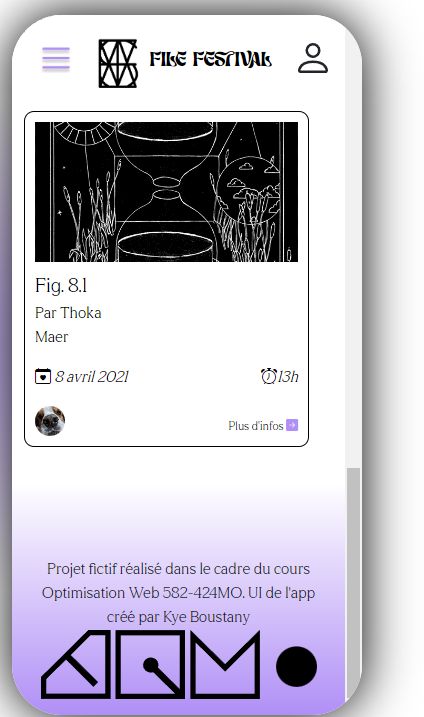
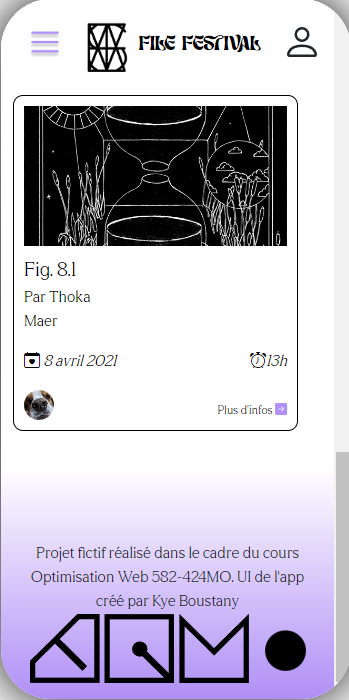
ki

diff --git a/index.html b/index.html
@@ -10,7 +10,7 @@
     <link rel="stylesheet" href="../css/custom_bootstrap.css">
     <link rel="stylesheet" href="https://cdn.jsdelivr.net/npm/swiper@9/swiper-bundle.min.css" />
     <link rel="stylesheet" href="01_css/styles-lp.css">
-    <title> <i class="bi bi-boxes "></i>Document</title>
+
 </head>
 
 <body>
@@ -164,17 +164,25 @@
        
         <section id="viewmore">
             <h3>Prévisualisez l'interface de l'appli</h3>
+            <div class="swiper-screenshots">
             <div class="swiper" id="scrollyspyHeading5">
                
         <div class="swiper-wrapper">
             
-        <div class="swiper-slide">Slide 1</div>
-            <div class="swiper-slide">Slide 2</div>
-            <div class="swiper-slide">Slide 3</div>
-            ...
+        <div class="swiper-slide"></div>
+        <img src="../00_assets/iframe/haut-page.PNG" class="imgswiper">
+            <div class="swiper-slide"></div>
+            <img src="../00_assets/iframe/bas_page.PNG" class="imgswiper">
+            <div class="swiper-slide"></div>
+            <img src="../00_assets/iframe/artworks.jpg" class="imgswiper">
+            <div class="swiper-slide"></div>
+            <img src="../00_assets/iframe/artworks_mi_page.PNG" class="imgswiper">
+            <div class="swiper-slide"></div>
+            <img src="../00_assets/iframe/artworks_bas_page.PNG" class="imgswiper">
         </div>
+    
+    </div>
        
-        <div class="swiper-pagination"></div>
 
         <div class="swiper-button-prev"></div>
         <div class="swiper-button-next"></div>

diff --git a/02_js/script.js b/02_js/script.js
@@ -1,1 +1,17 @@
-const mySwiperlp = new Swiper(swiperContainer, parameters);
+const swiper = new Swiper(".swiper-screenshot", {
+    direction: "horizontal",
+    loop: true,
+    centeredSlides: true,
+    navigation: {
+        nextEl: ".swiper-button-next",
+        prevEl: ".swiper-button-prev",
+    },
+    slidesPerView: 1,
+    spaceBetween: 20,
+    breakpoints: {
+        1200: {
+            slidesPerView: 3,
+            spaceBetween: 20,
+        },
+    },
+});

diff --git a/01_css/styles-lp.css b/01_css/styles-lp.css
@@ -125,7 +125,21 @@ iframe {
     font-size: 26px;
     margin-top: 90px;
 }
-
+/*#  Fonctionalitées*/
+.swiper{
+    width:75vh;
+    height:300px;
+    text-align:center;
+    border:3px solid blue;   
+}
+.imgswiper{
+    object-fit:cover;
+    width:100%;
+    height:300px;
+    border-radius: 20px;
+    border:3px solid black;
+ 
+}
 
 /* témoignage*/
 
